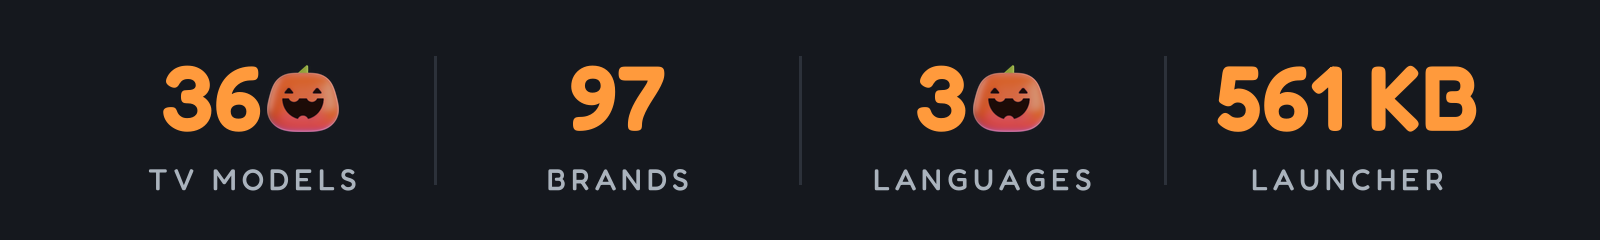
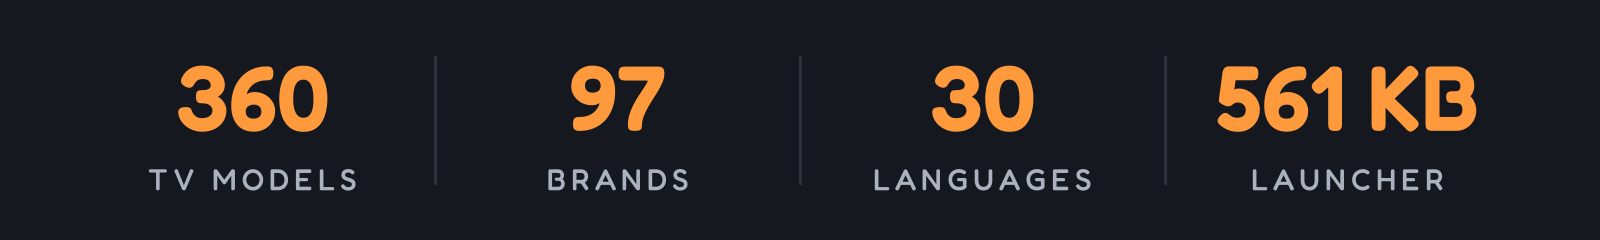
README: a shorter Halloween line, and the card's 360 and 30 in plain digits (the pumpkin 0s read as 36 and 3)

Changed region(s): [[0.0938, 0.2625, 0.2188, 0.5542], [0.5625, 0.2625, 0.6562, 0.5542]]

diff --git a/tools/readme_stats.py b/tools/readme_stats.py
@@ -3,9 +3,8 @@
 Update STATS, then: python3 tools/readme_stats.py Fredoka.ttf docs/stats.png
 and rebuild the card with tools/readme_card.py.
 python3 tools/readme_stats.py --halloween Fredoka.ttf docs/stats-halloween.png draws the October strip for
-tools/readme_card.py --halloween: the same STATS in pumpkin orange, each digit 0 the 3D pumpkin of the
-spooky logo (docs/pumpkin-3d.png). Fredoka is the variable TTF from Google Fonts, and its
-file is not in this repo: download it and pass the path of the copy you saved.
+tools/readme_card.py --halloween: the same STATS in pumpkin orange. Fredoka is the variable TTF from
+Google Fonts, and its file is not in this repo: download it and pass the path of the copy you saved.
 """
 import os
 import sys
@@ -91,44 +90,12 @@ def f(size, wt):
 f(12, 400)  # the font is the argument the reader brings, so a wrong one is named before any drawing
 num, lab = f(92, 600), f(30, 500)
 NUM_FILL = "#ff9a3c" if HALLOWEEN else "#cfffcf"
-PUMPKIN = None
-if HALLOWEEN:
-    if not os.path.isfile("docs/pumpkin-3d.png"):
-        sys.exit("cannot read docs/pumpkin-3d.png: the Halloween strip draws each 0 as that picture, so run "
-                 "this from the repository root. Nothing was written.")
-    PUMPKIN = Image.open("docs/pumpkin-3d.png").convert("RGBA")
-    PUMPKIN = PUMPKIN.crop(PUMPKIN.getbbox())
-
-
-def number(d, cx, n):
-    """`n` with each 0 drawn as the pumpkin: as tall as the digits, standing on their baseline."""
-    top, bottom = d.textbbox((0, 40), "3", font=num)[1::2]
-    h = bottom - top
-    pk = PUMPKIN.resize((round(PUMPKIN.width * h / PUMPKIN.height), h), Image.LANCZOS)
-    gap = 10
-    parts = n.split("0")
-    seq = []
-    for i, text in enumerate(parts):
-        if text:
-            seq.append(("t", text, d.textlength(text, font=num)))
-        if i < len(parts) - 1:
-            seq.append(("p", None, pk.width + gap))
-    x = cx - sum(w for _, _, w in seq) / 2
-    for kind, text, w in seq:
-        if kind == "t":
-            d.text((x, 40), text, font=num, fill=NUM_FILL)
-        else:
-            img.paste(pk, (round(x + gap / 2), bottom - h), pk)
-        x += w
 
 PAD = 70
 col = (W - 2 * PAD) / len(STATS)
 for i, (n, l) in enumerate(STATS):
     cx = PAD + col * i + col / 2
-    if HALLOWEEN and "0" in n:
-        number(d, cx, n)
-    else:
-        w = d.textlength(n, font=num); d.text((cx - w / 2, 40), n, font=num, fill=NUM_FILL)
+    w = d.textlength(n, font=num); d.text((cx - w / 2, 40), n, font=num, fill=NUM_FILL)
     sp = 5; w = sum(d.textlength(c, font=lab) for c in l) + sp * (len(l) - 1); x = cx - w / 2
     for c in l: d.text((x, 160), c, font=lab, fill="#aab3bd"); x += d.textlength(c, font=lab) + sp
     if i: d.line([(PAD + col * i, 56), (PAD + col * i, H - 56)], fill="#2c313a", width=3)

diff --git a/tools/readme_card.py b/tools/readme_card.py
@@ -6,7 +6,7 @@ python3 tools/readme_card.py Fredoka.ttf docs/card.jpg
 python3 tools/readme_card.py --halloween Fredoka.ttf docs/card-halloween.jpg   # the October variant
 The Halloween variant keeps the layout and the generated numbers: it shows docs/stats-halloween.png
 (python3 tools/readme_stats.py --halloween Fredoka.ttf docs/stats-halloween.png: the same numbers in pumpkin
-orange, each 0 a pumpkin), recolours the headings to orange, adds a thin dripping stripe and a few bats, and
+orange), recolours the headings to orange, adds a thin dripping stripe and a few bats, and
 shows docs/new-home-halloween.jpg as AFTER. docs/card.jpg is not touched, so the README goes back with one line.
 Fredoka is the variable TTF from Google Fonts, and its file is not in this repo: pass the path of the
 copy you downloaded. The four pictures it stacks are this checkout's own - docs/stock-home.jpg,

diff --git a/README.md b/README.md
@@ -3,7 +3,7 @@
 </p>
 
 <p align="center">
-  🎃 <b>New: the Halloween pack.</b> A spooky Home and a Haunted screensaver for your TV, until 1 November. <a href="https://cleanyour.tv/halloween">cleanyour.tv/halloween</a>
+  🎃 <b>New: the Halloween pack</b> (until 1 Nov): <a href="https://cleanyour.tv/halloween">cleanyour.tv/halloween</a>
 </p>
 
 <p align="center">
